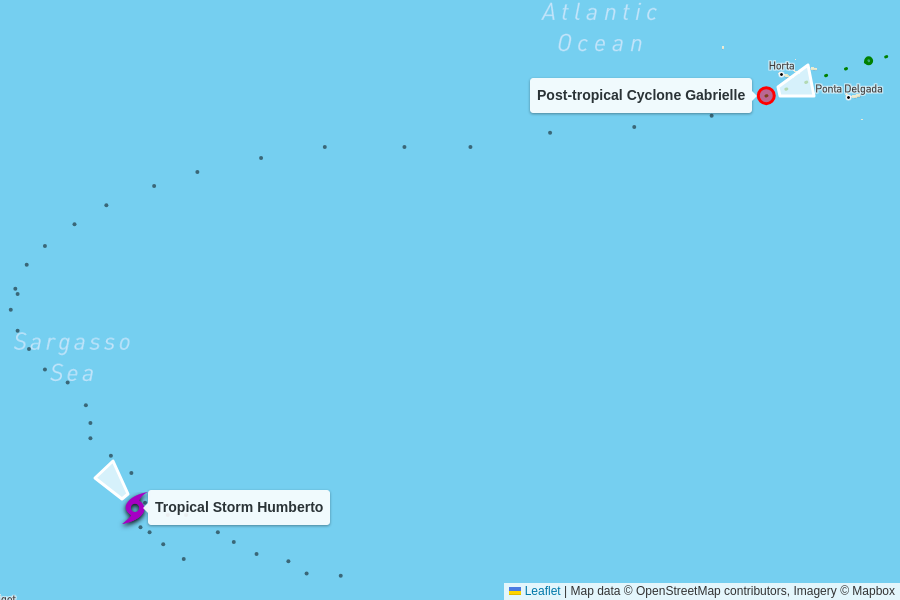
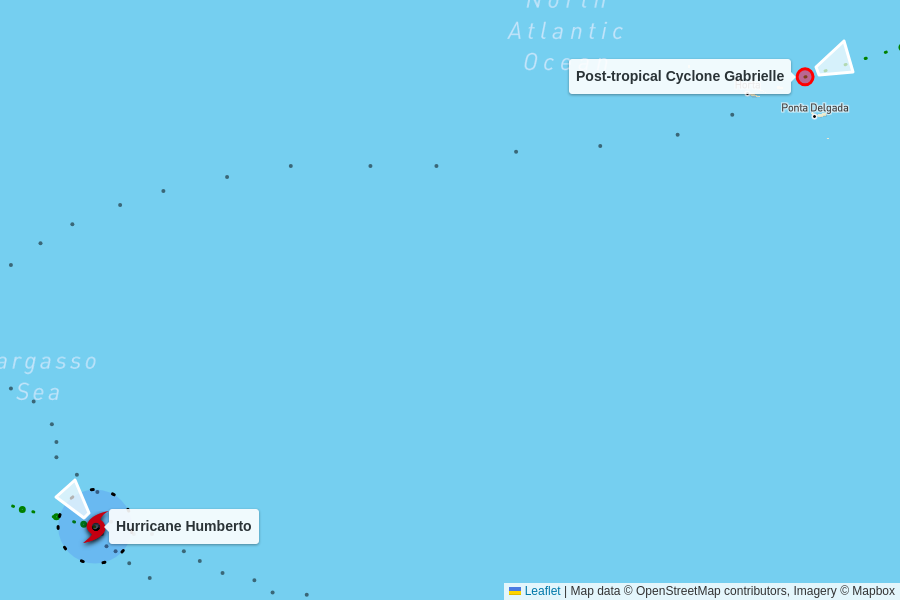
automatic update

diff --git a/docs/index.html b/docs/index.html
@@ -104,7 +104,7 @@
         <td colspan="6" class="storm category-0" >
           <h2>
             Post-tropical Cyclone Gabrielle
-            <p class="updated">last updated <span data-time>2025-09-26T03:00:00.000Z</span></p>
+            <p class="updated">last updated <span data-time>2025-09-26T09:00:00.000Z</span></p>
           </h2>
         </td>
       </tr>
@@ -119,12 +119,12 @@
       </tr>
       <tr>
         <td class="spacer"></td>
-        <td>65 mph<br>-5 mph since last update</td>
-        <td>985 mb<br>+2 mb since last update</td>
+        <td>65 mph<br>0 mph since last update</td>
+        <td>990 mb<br>+5 mb since last update</td>
         <td>
           29 mph to the east-northeast
           <br/>
-          <span style="display: inline-block; font-size: 1.5em; transform: rotate(75deg);">↑</span>
+          <span style="display: inline-block; font-size: 1.5em; transform: rotate(70deg);">↑</span>
         </td>
         <td><a href="https://raw.githubusercontent.com/mgwalker/atlantic-hurricanes/main/data/csv/AL072025.csv">AL072025.csv</a></td>
         <td><a href="https://www.nhc.noaa.gov/archive/2025/GABRIELLE.shtml?">NHC advisories</a></td>
@@ -145,10 +145,10 @@
       
 
       <tr>
-        <td colspan="6" class="storm category-0" >
+        <td colspan="6" class="storm category-1" >
           <h2>
-            Tropical Storm Humberto
-            <p class="updated">last updated <span data-time>2025-09-26T03:00:00.000Z</span></p>
+            Hurricane Humberto - Category 1
+            <p class="updated">last updated <span data-time>2025-09-26T09:00:00.000Z</span></p>
           </h2>
         </td>
       </tr>
@@ -163,8 +163,8 @@
       </tr>
       <tr>
         <td class="spacer"></td>
-        <td>65 mph<br>+5 mph since last update</td>
-        <td>998 mb<br>-2 mb since last update</td>
+        <td>75 mph<br>+10 mph since last update</td>
+        <td>990 mb<br>-8 mb since last update</td>
         <td>
           3 mph to the northwest
           <br/>
